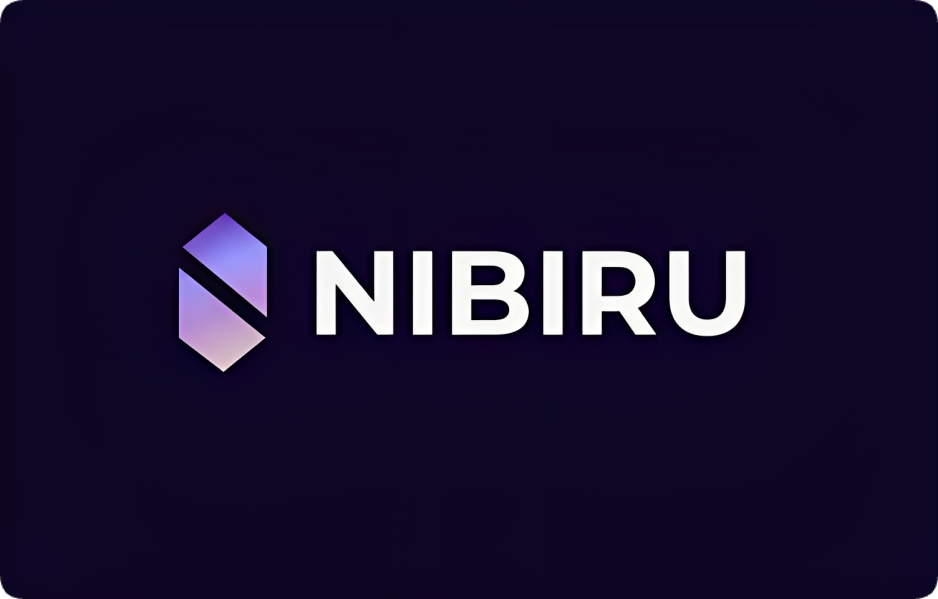
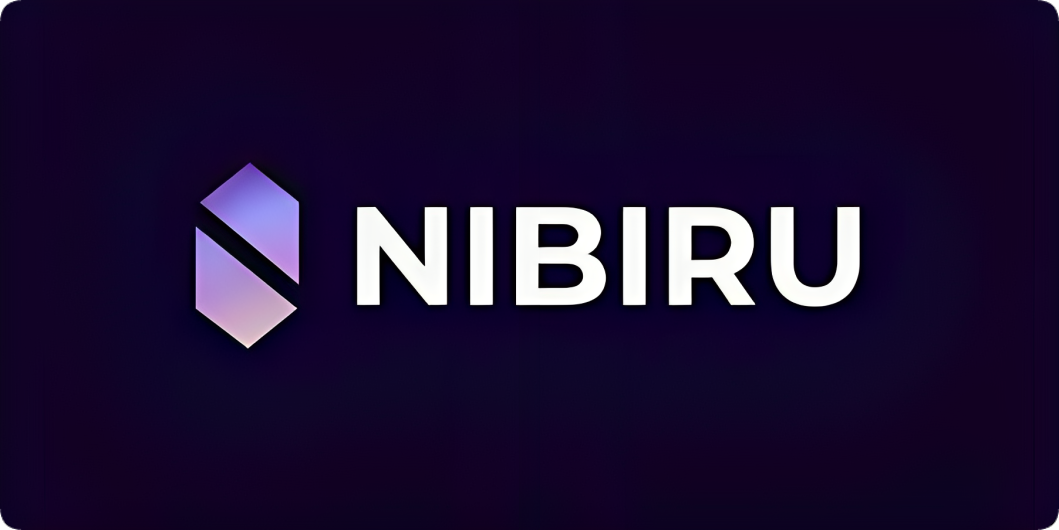
updated (#56)
* nibiru endpoints updated

* nibiru png deleted

* nibiru png added

* nibiru png added

* nibiru other-tools deleted

* nibiru bots deleted

* zetachain tools updated

diff --git a/docs/zetachain/useful-tools/other-tools.md b/docs/zetachain/useful-tools/other-tools.md
@@ -18,6 +18,8 @@ To contribute your own resource, simply click on **Edit this page** at the botto
 | Contribution | Description | Author | Date added/updated |
 | --- | --- | --- | --- |
 | [Network Information Script](https://github.com/f5nodes/zetachain) | This script provides information about the Zetachain network, validators, and proposals by interacting with the Zetachain RPC API. | [F5 Nodes](https://github.com/f5nodes) | 2023-10-09 |
+| [RPC Scanner](https://itrocket.net/services/testnet/zetachain/public-rpc) | The tool scan the network and produce a list of nodes that publish their RPC endpoints. | [ITRocket](https://github.com/itrocket-am) | 2023-10-22 |
+| [RPC Scanner](https://services.kjnodes.com/testnet/zetachain/public-rpc) | The tool scan the network and produce a list of nodes that publish their RPC endpoints. | [kjnodes](https://github.com/kj89) | 2023-10-22 |
 | [Monitoring Tool](https://github.com/nodejumper-org/monitoring-tool) | A powerful and easy-to-use monitoring tool for server hardware and validator nodes with alerts via telegram bot and grafana dashboards. | [NodeJumper](https://github.com/nodejumper-org) | 2023-06-08 |
 
 
